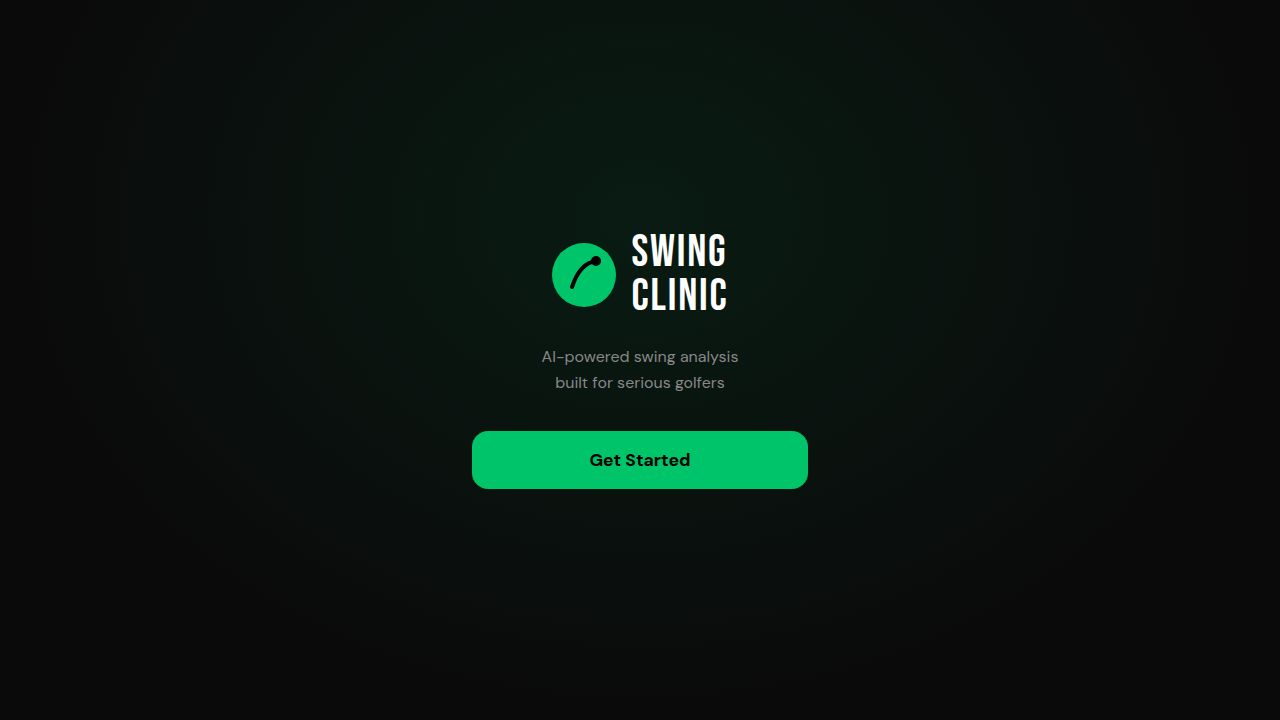
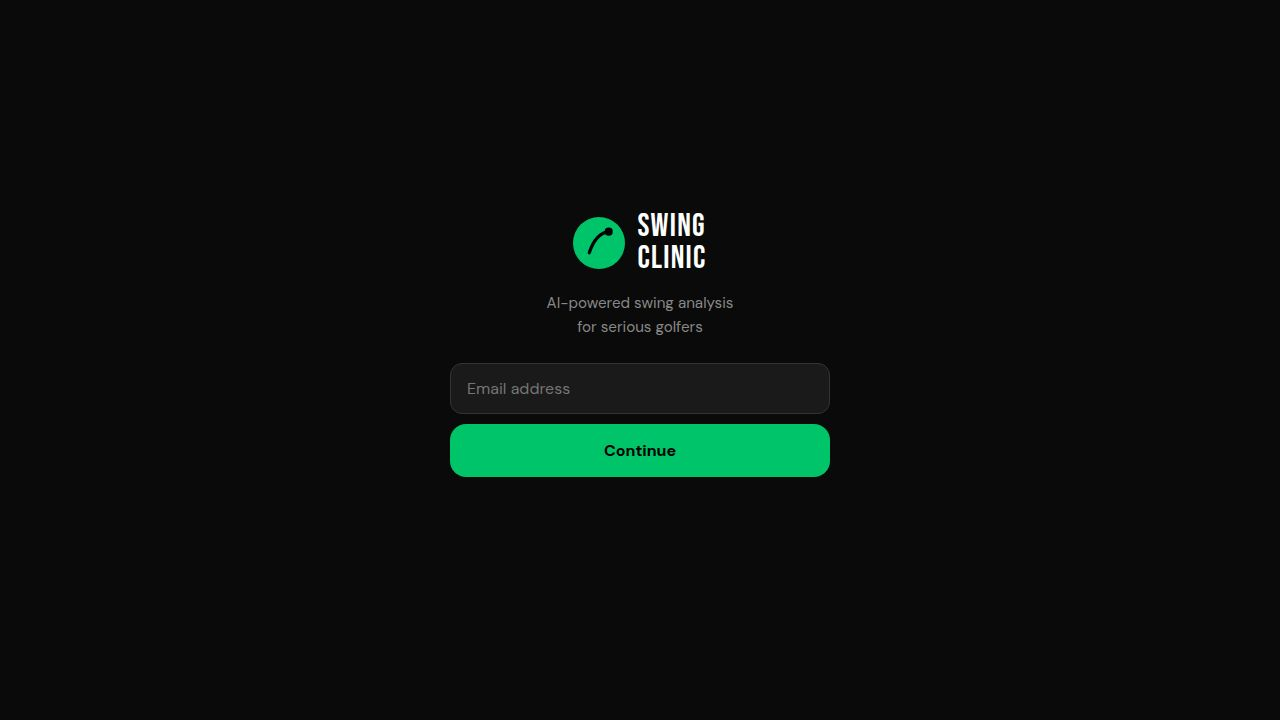
Improve analysis results by disabling caching and enhancing logging
Implement no-cache headers, add random salts to requests, and log full API responses and frame counts to ensure accurate and transparent analysis results.

Replit-Commit-Author: Agent
Replit-Commit-Session-Id: 9df3b87d-4944-40ef-8836-366b8d57685e
Replit-Commit-Checkpoint-Type: full_checkpoint
Replit-Commit-Event-Id: 24246349-b591-40ab-acc2-4ba797633bf5
Replit-Commit-Screenshot-Url: https://storage.googleapis.com/screenshot-production-us-central1/af681e70-e303-4036-856a-4d8d565262cf/9df3b87d-4944-40ef-8836-366b8d57685e/ZCRXsZk
Replit-Helium-Checkpoint-Created: true

Changed region(s): [[0.3438, 0.5806, 0.6562, 0.7028], [0.4062, 0.275, 0.5938, 0.4583], [0.3438, 0.4889, 0.5938, 0.55]]

diff --git a/artifacts/swing-clinic/src/main.js b/artifacts/swing-clinic/src/main.js
@@ -290,7 +290,9 @@ async function extractFrames(file, count = 12) {
 }
 
 async function callVideoAPI(file) {
-  console.log(`[callVideoAPI] Sending video "${file.name}" (${(file.size / 1024 / 1024).toFixed(1)} MB) to /api/analyse-video`);
+  const salt = `${Date.now()}-${Math.random().toString(36).slice(2)}`;
+  console.log(`[callVideoAPI] salt=${salt} | video="${file.name}" | size=${(file.size / 1024 / 1024).toFixed(2)} MB | type=${file.type}`);
+
   const formData = new FormData();
   formData.append('video', file);
   formData.append('goal',         state.goal        || '');
@@ -298,25 +300,33 @@ async function callVideoAPI(file) {
   formData.append('years',        state.years       || '');
   formData.append('coach',        state.coach       || '');
 
-  // Don't set Content-Type — browser sets it with the multipart boundary
-  const response = await fetch('/api/analyse-video', { method: 'POST', body: formData });
+  // salt in URL ensures no HTTP/proxy cache hit; cache:'no-store' prevents browser cache
+  const response = await fetch(`/api/analyse-video?_salt=${salt}`, {
+    method: 'POST',
+    cache: 'no-store',
+    body: formData,
+  });
 
   console.log(`[callVideoAPI] Response status: ${response.status}`);
   if (!response.ok) {
     const err = await response.json().catch(() => ({ error: response.statusText }));
-    console.error('[callVideoAPI] Error:', err);
+    console.error('[callVideoAPI] FULL ERROR:', JSON.stringify(err, null, 2));
     throw new Error(err.error || `Server error ${response.status}`);
   }
 
   const data = await response.json();
-  console.log('[callVideoAPI] Result:', JSON.stringify({ overallScore: data.overallScore, biggestKiller: data.biggestKiller }));
+  console.log('[callVideoAPI] FULL RESPONSE:', JSON.stringify(data, null, 2));
   return data;
 }
 
 async function callAPI(frames) {
-  console.log(`[callAPI] Sending ${frames.length} frame(s) to /api/analyse`);
-  const response = await fetch('/api/analyse', {
+  const salt = `${Date.now()}-${Math.random().toString(36).slice(2)}`;
+  const totalKb = Math.round(frames.reduce((s, f) => s + f.length, 0) / 1024);
+  console.log(`[callAPI] salt=${salt} | frames=${frames.length} | total payload ~${totalKb} KB`);
+
+  const response = await fetch(`/api/analyse?_salt=${salt}`, {
     method: 'POST',
+    cache: 'no-store',
     headers: { 'Content-Type': 'application/json' },
     body: JSON.stringify({
       frames,
@@ -330,12 +340,12 @@ async function callAPI(frames) {
   console.log(`[callAPI] Response status: ${response.status}`);
   if (!response.ok) {
     const err = await response.json().catch(() => ({ error: response.statusText }));
-    console.error('[callAPI] API error:', err);
+    console.error('[callAPI] FULL ERROR:', JSON.stringify(err, null, 2));
     throw new Error(err.error || `Server error ${response.status}`);
   }
 
   const data = await response.json();
-  console.log('[callAPI] Result:', JSON.stringify({ overallScore: data.overallScore, biggestKiller: data.biggestKiller }));
+  console.log('[callAPI] FULL RESPONSE:', JSON.stringify(data, null, 2));
   return data;
 }
 

diff --git a/artifacts/api-server/src/routes/analyse-video.ts b/artifacts/api-server/src/routes/analyse-video.ts
@@ -290,17 +290,22 @@ router.post(
       // 2 — Full swing analysis via Gemini 2.5 Pro (video-native)
       console.log("[analyse-video] Requesting Gemini 2.5 Pro analysis");
       const geminiText = await analyseWithGemini(fileUri, mimetype, { goal, averageScore, years, coach }, geminiKey);
-      console.log(`[analyse-video] Gemini response (first 400 chars): ${geminiText.slice(0, 400)}`);
+      console.log(`[analyse-video] FULL GEMINI RESPONSE:\n${geminiText}`);
       const analysis = extractResult(geminiText);
-      console.log(`[analyse-video] Gemini scores — overallScore: ${analysis.overallScore}, biggestKiller: ${analysis.biggestKiller}`);
+      console.log(`[analyse-video] PARSED GEMINI RESULT:\n${JSON.stringify(analysis, null, 2)}`);
 
       // 3 — Drills + personalised coaching message via Claude
       console.log("[analyse-video] Requesting Claude drills + coaching");
       const extras = await getDrillsFromClaude(analysis, { goal, years, coach }, claudeKey);
-      console.log("[analyse-video] Claude drills complete");
+      console.log(`[analyse-video] CLAUDE DRILLS RESULT:\n${JSON.stringify(extras, null, 2)}`);
 
       // 4 — Merge and respond
-      res.json({ ...analysis, ...extras });
+      const merged = { ...analysis, ...extras };
+      console.log(`[analyse-video] FINAL MERGED RESULT:\n${JSON.stringify(merged, null, 2)}`);
+      res.set("Cache-Control", "no-store, no-cache, must-revalidate");
+      res.set("Pragma", "no-cache");
+      res.set("Surrogate-Control", "no-store");
+      res.json(merged);
     } catch (err: unknown) {
       const msg = err instanceof Error ? err.message : String(err);
       console.error("[analyse-video] Error:", msg);

diff --git a/artifacts/api-server/src/routes/analyse.ts b/artifacts/api-server/src/routes/analyse.ts
@@ -131,7 +131,8 @@ Then output your result wrapped exactly like this — no other braces outside th
 }
 </result>`;
 
-  console.log(`[analyse] Sending ${frames.length} frame(s) to Anthropic (model: claude-sonnet-4-5)`);
+  const totalPayloadKb = Math.round(frames.reduce((sum: number, f: string) => sum + f.length, 0) / 1024);
+  console.log(`[analyse] FRAMES BEING SENT: ${frames.length} frame(s), total base64 payload ~${totalPayloadKb} KB, session seed: ${sessionSeed}`);
 
   const anthropicRes = await fetch("https://api.anthropic.com/v1/messages", {
     method: "POST",
@@ -169,7 +170,7 @@ Then output your result wrapped exactly like this — no other braces outside th
     usage?: Record<string, number>;
   };
   const text = anthropicData.content?.[0]?.text ?? "";
-  console.log(`[analyse] Raw response (first 400 chars): ${text.slice(0, 400)}`);
+  console.log(`[analyse] FULL RAW ANTHROPIC RESPONSE:\n${text}`);
 
   // Prefer the <result>...</result> block; fall back to last JSON object in the text
   let jsonStr: string | null = null;
@@ -193,7 +194,10 @@ Then output your result wrapped exactly like this — no other braces outside th
   }
 
   const result = JSON.parse(jsonStr);
-  console.log(`[analyse] Parsed — overallScore: ${result.overallScore}, biggestKiller: ${result.biggestKiller}`);
+  console.log(`[analyse] PARSED RESULT:\n${JSON.stringify(result, null, 2)}`);
+  res.set("Cache-Control", "no-store, no-cache, must-revalidate");
+  res.set("Pragma", "no-cache");
+  res.set("Surrogate-Control", "no-store");
   res.json(result);
 });
 